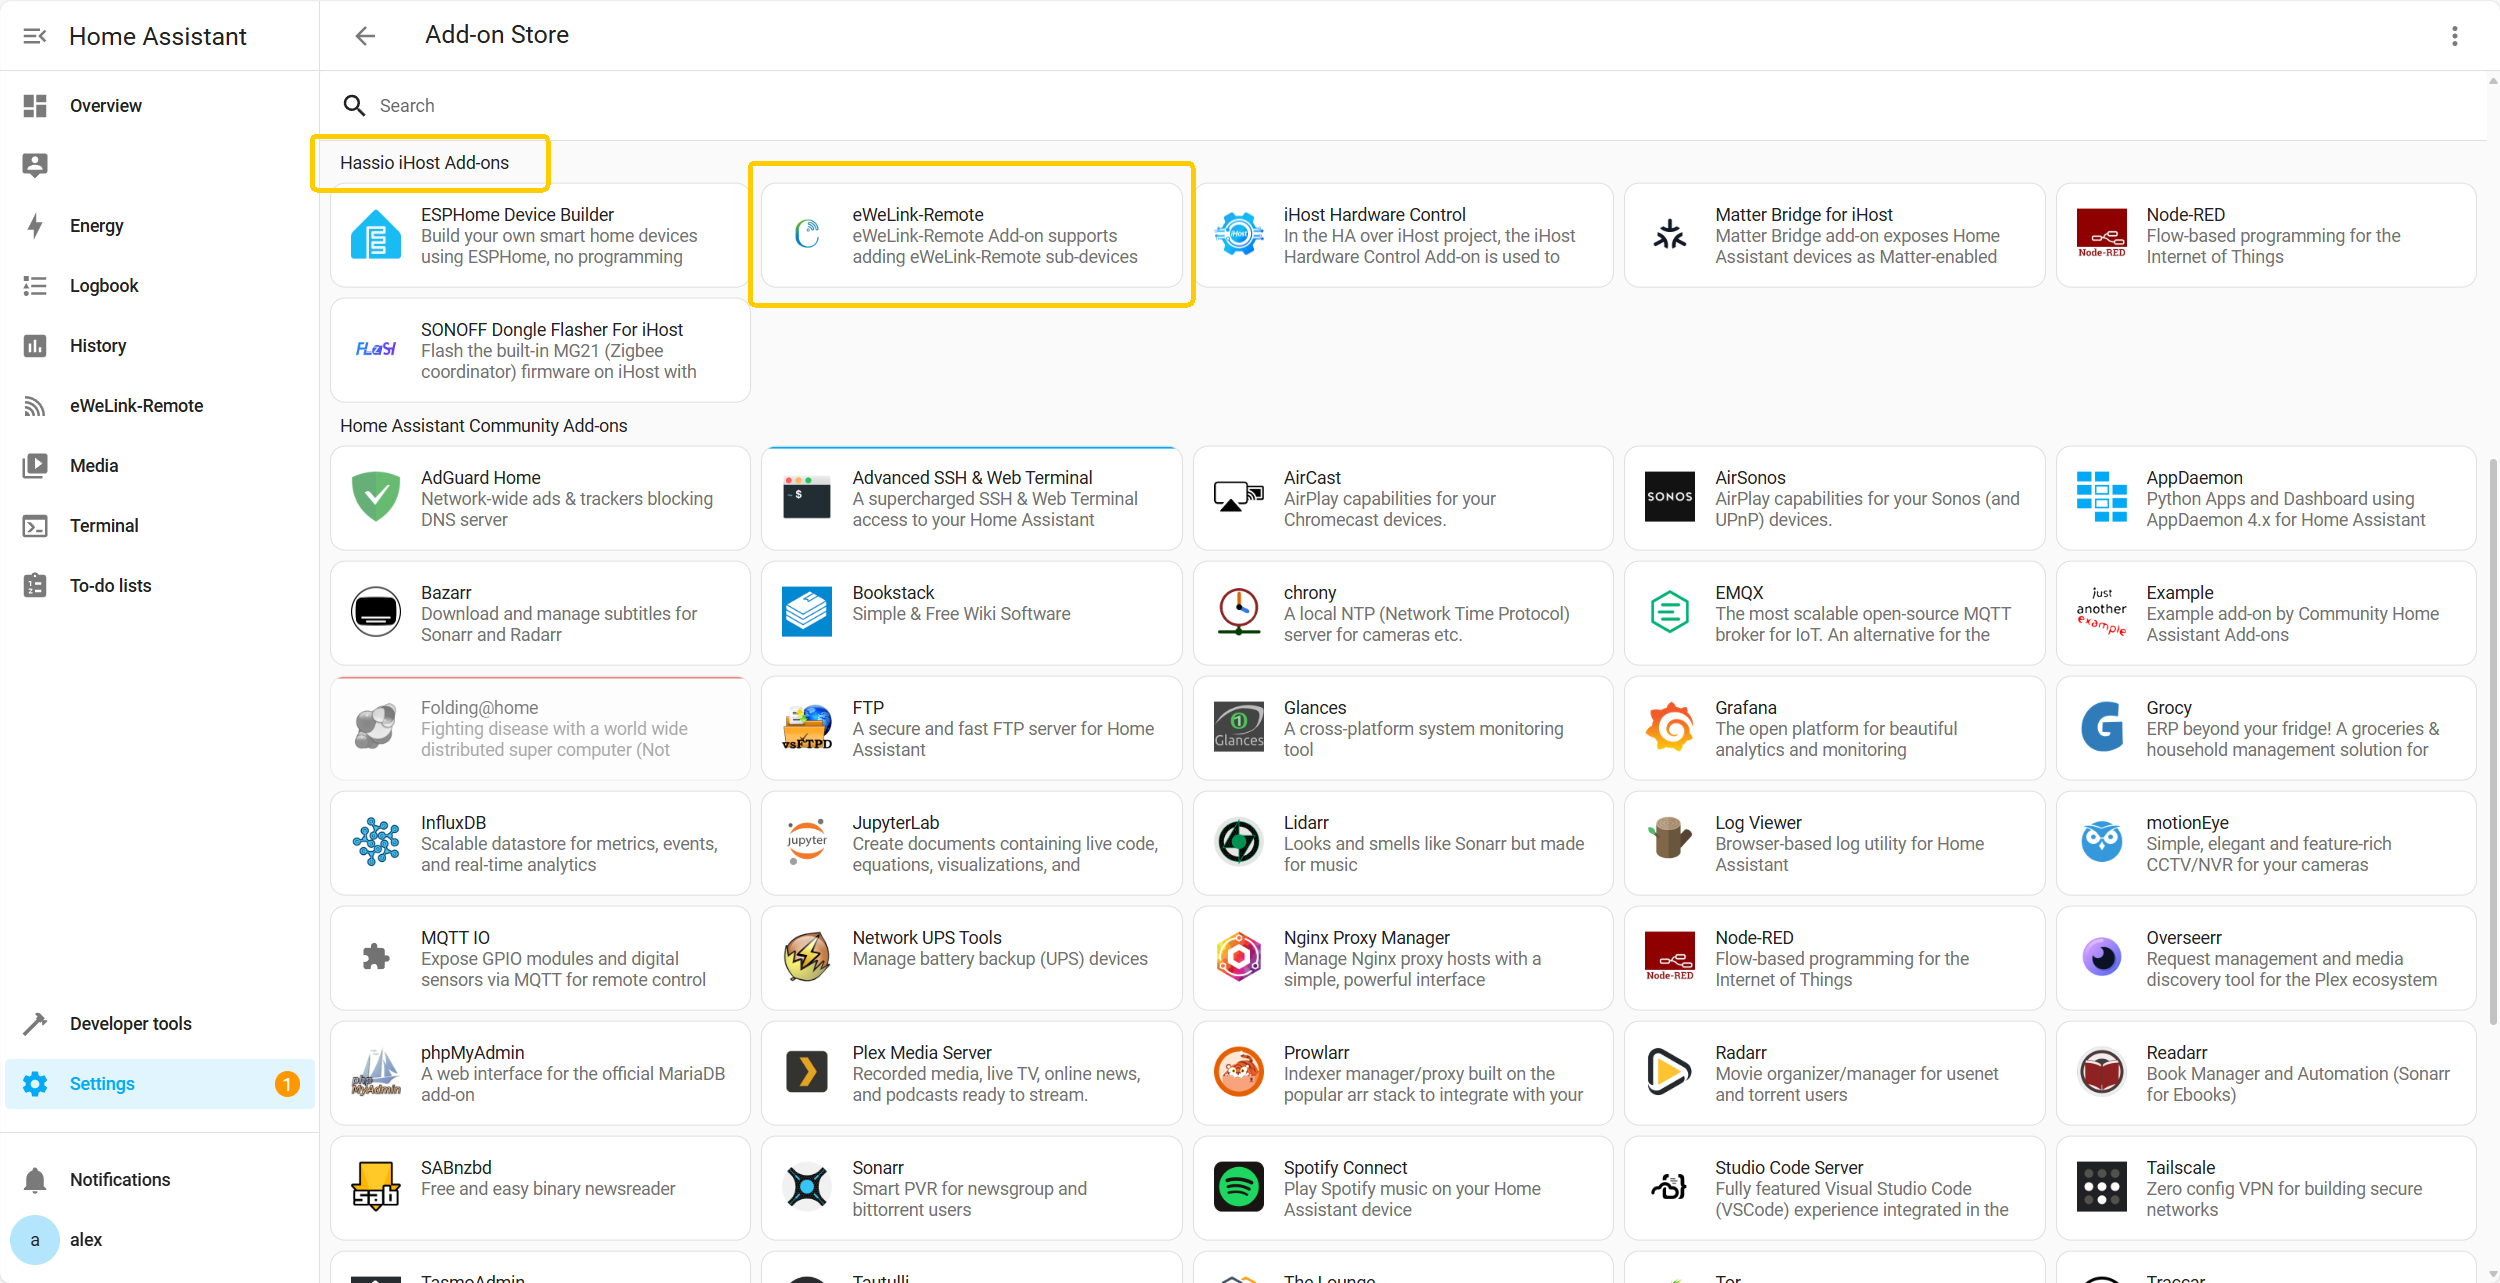
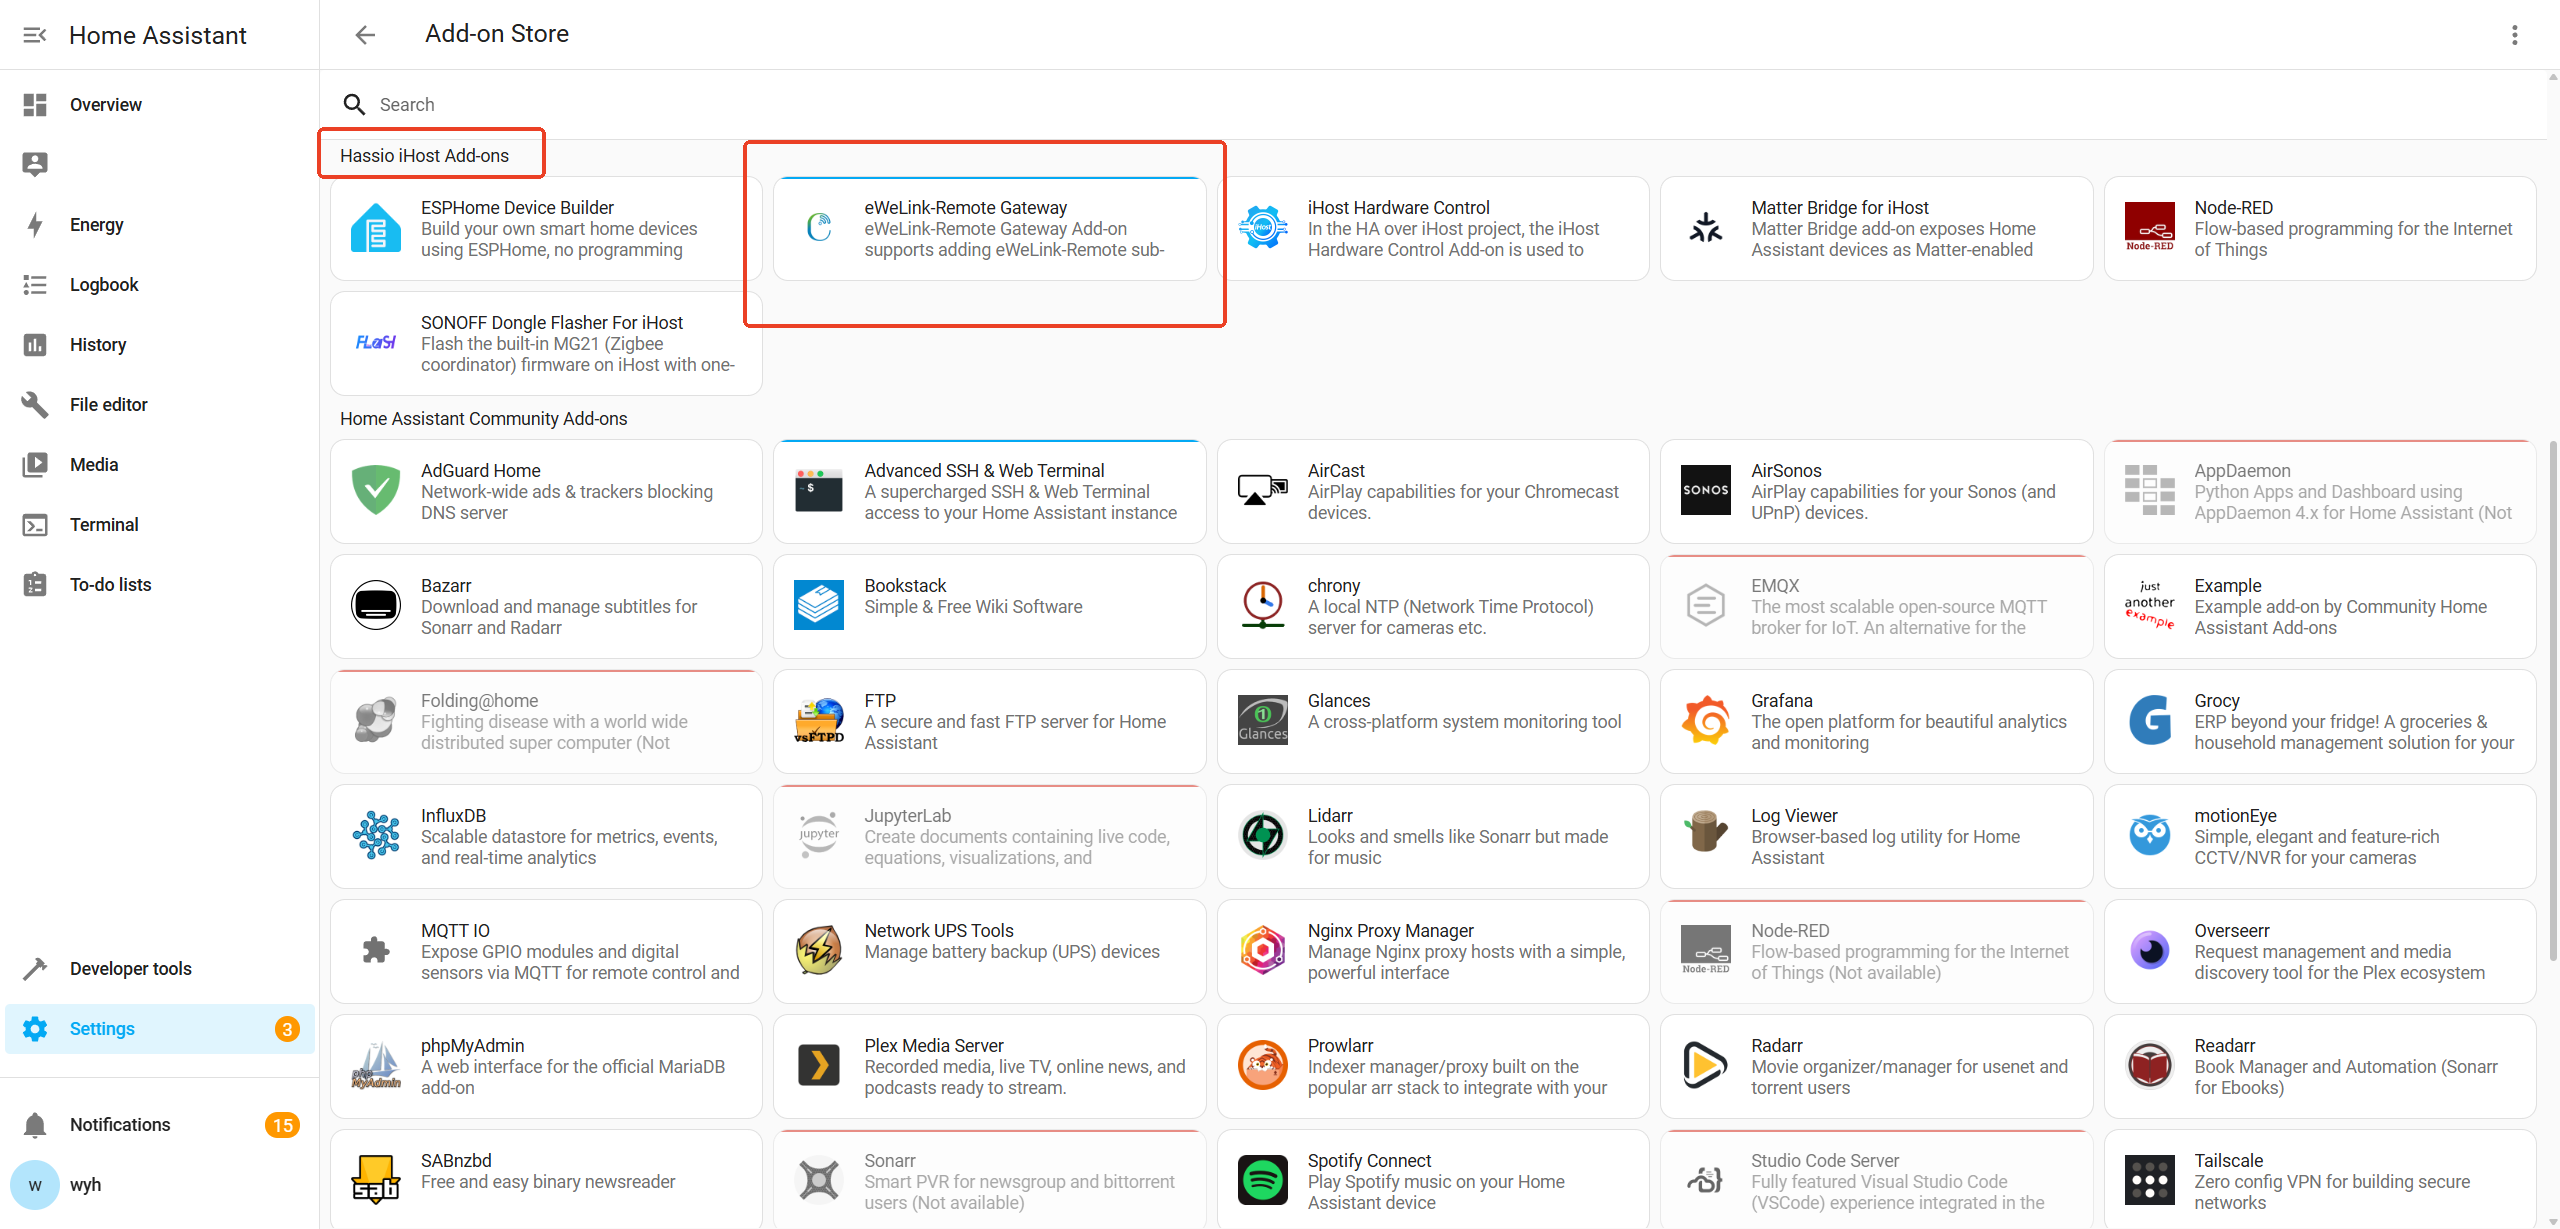
update ewelink remote addon doc and readme

diff --git a/hassio-ihost-ewelink-remote/DOCS.md b/hassio-ihost-ewelink-remote/DOCS.md
@@ -1,10 +1,15 @@
-# eWeLink-Remote Gateway Add-on
+# eWeLink-Remote Gateway
 ## 1. Introduction
-"eWeLink-Remote Gateway" is a remote control solution exclusive to SONOFF's devices, offering an enhanced alternative to traditional 433MHz RF control. It provides more reliable, longer-range, and easier control of your smart devices. eWeLink-Remote network includes an eWeLink-Remote gateway device and multiple sub-devices.[ See more >](https://sonoff.tech/news-and-events/what-is-ewelink-remote-control/)  
-eWeLink-Remote Gateway Add-on supports using devices such as R5, R5W, S-Mate, and S-Mate2 acting as eWeLink-Remote gateways.  
+eWeLink-Remote Gateway add-on is an eWeLink-Remote Gateway gateway that supports adding eWeLink-Remote sub-devices and syncing sub-devices  to Home Assistant,such as **R5,R5W,S-Mate,S-Mate2**. You can select eWeLink-Remote Gateway sub-devices in Home Assistant Automations and trigger automations through single-click,double-click,and long-press events reported by eWeLink-Remote Gateway sub-devices.Learn more about eWeLink-Remote Gateway.
+
 ## 2. Prerequisite
-The hardware on which Home Assistant is installed needs to have a Bluetooth module, and the running Home Assistant has Bluetooth [ passive scanning ](https://www.home-assistant.io/integrations/bluetooth/#passive-scanning) enabled.
-Enable Bluetooth passive scanning: Go to Bluetooth Integration > Configuration > Configure Bluetooth Options, check Passive Scanning, and click Submit. 
+To use the eWeLink-Remote Gateway Add-on, make sure your Home Assistant setup meets the following conditions:
+- The device running Home Assistant must have a functional Bluetooth module (if there is no Bluetooth module, you can configure a Bluetooth Dongle).
+- Enable Bluetooth integration
+- Bluetooth Passive Scanning must be enabled in Home Assistant.
+    - To enable Bluetooth passive scanning: 
+    Go to Bluetooth Integration > Configuration > Configure Bluetooth Options, check Passive Scanning, and click Submit. 
+
 ## 3. How to Install eWeLink-Remote Gateway Add-on?
 ### 3.1 Add eWeLink-Remote Gateway Add-on to Repositories
 Skip this step and simply proceed to the Add-on Store to install the required add-on if you have already added the add-ons from this repository (e.g., iHost Hardware Control).
@@ -12,25 +17,26 @@ Skip this step and simply proceed to the Add-on Store to install the required ad
 - Navigate to Settings > Add-on Store> Click the three-dot menu (⋮) in the top right corner and select Repositories
 - Enter the repository URL into the input box: https://github.com/iHost-Open-Source-Project/hassio-ihost-addon
 2. Via Button Clicking
-- Click this button to add the add-on automatically 
-
+- Click this buttonto add the add-on automatically    
 [![Open your Home Assistant instance and show the add add-on repository dialog with a specific repository URL pre-filled.](https://my.home-assistant.io/badges/supervisor_add_addon_repository.svg)](https://my.home-assistant.io/redirect/supervisor_add_addon_repository/?repository_url=https%3A%2F%2Fgithub.com%2FiHost-Open-Source-Project%2Fhassio-ihost-addon)
 ### 3.2 Install eWeLink-Remote Gateway Add-on
 1.    Search for eWeLink-Remote Gateway in the Add-ons Store.
 ![](https://raw.githubusercontent.com/iHost-Open-Source-Project/hassio-ihost-addon/master/hassio-ihost-ewelink-remote/images/find.png)
 2.    Click Install
-![](https://raw.githubusercontent.com/iHost-Open-Source-Project/hassio-ihost-addon/master/hassio-ihost-ewelink-remote/images/install_Addon.png)
+![](https://raw.githubusercontent.com/iHost-Open-Source-Project/hassio-ihost-addon/master/hassio-ihost-ewelink-remote/images/stall.png)
+![](https://raw.githubusercontent.com/iHost-Open-Source-Project/hassio-ihost-addon/master/hassio-ihost-ewelink-remote/images/open_web_ui1.png)
 3.   Wait for the installation to complete
 ### 3.3 Start the eWeLink-Remote Gateway Add-on
 After installation, click Start to launch the add-on. Wait until the service has fully started before proceeding.
-![](https://raw.githubusercontent.com/iHost-Open-Source-Project/hassio-ihost-addon/master/hassio-ihost-ewelink-remote/images/start.png)
 ## 4. Add devices via eWeLink-Remote Gateway Add-on
 1.  Click "Web Interface" to enter the Add-on operation interface.
 ![](https://raw.githubusercontent.com/iHost-Open-Source-Project/hassio-ihost-addon/master/hassio-ihost-ewelink-remote/images/open_web_ui.png)
 **Note*:**
-- When using eWeLink-Remote Gateway Add-on, you need to ensure that the Bluetooth function of Home Assistant can be used normally (the Bluetooth module is normal), otherwise the prompt content in the picture will appear
-- Before clicking "Pair" to start adding devices, you need to configure and enable Bluetooth "[ passive scanning ](https://www.home-assistant.io/integrations/bluetooth/#passive-scanning)  " to detect and connect to eWeLink-Remote devices. If it is not enabled in advance, a prompt page will appear. You can follow the prompt path (Go to Bluetooth Integration > Configuration > Configure Bluetooth Options, check Passive Scanning, and click Submit.) to enable it.
-![](https://raw.githubusercontent.com/iHost-Open-Source-Project/hassio-ihost-addon/master/hassio-ihost-ewelink-remote/images/no_blue.png)
+- Bluetooth must be enabled in Home Assistant to use the eWeLink-Remote Gateway Add-on. If there is no Bluetooth hardware module (configurable Bluetooth Dongle) or Bluetooth integration is not enabled, the Add-on will not work;
+You can check the log to determine whether the Add-on failed to run because the Bluetooth integration is not enabled. 
+![](https://raw.githubusercontent.com/iHost-Open-Source-Project/hassio-ihost-addon/master/hassio-ihost-ewelink-remote/images/Log-image.png)
+![](https://raw.githubusercontent.com/iHost-Open-Source-Project/hassio-ihost-addon/master/hassio-ihost-ewelink-remote/images/Log-Blue.png)
+- Before clicking "Pair" to start adding devices, you need to configure and enable Bluetooth "[ passive scanning ](https://www.home-assistant.io/integrations/bluetooth/#passive-scanning)  " to detect and connect to eWeLink-Remote Gateway devices. If it is not enabled in advance, a prompt page will appear. You can follow the prompt path (Go to Bluetooth Integration > Configuration > Configure Bluetooth Options, check Passive Scanning, and click Submit.) to enable it.
 ![](https://raw.githubusercontent.com/iHost-Open-Source-Project/hassio-ihost-addon/master/hassio-ihost-ewelink-remote/images/passive_scanning.png)
 2.  Click "Pair" to start adding devices. 
 Countdown is 180 seconds. During the adding process, you can manually click "Quit xxs" to stop adding devices. Press any button of the sub-device during the countdown to complete the device addition. 
@@ -50,3 +56,6 @@ Click "Edit" to manage the added devices, select the corresponding device, and c
 ![](https://raw.githubusercontent.com/iHost-Open-Source-Project/hassio-ihost-addon/master/hassio-ihost-ewelink-remote/images/HA_device.png)
 2. After the device is added successfully, you can configure scenes in Home Assistant as scene trigger conditions.
 ![](https://raw.githubusercontent.com/iHost-Open-Source-Project/hassio-ihost-addon/master/hassio-ihost-ewelink-remote/images/Sence.png)
+**Note*:**
+- After the eWeLink-Remote Gateway sub-device is successfully configured in Home Assistant Automation, if the entity name is changed, the entity name will be displayed as "Unknown" in the automation configuration information, but it will not affect the automation scene triggering.
+![](https://raw.githubusercontent.com/iHost-Open-Source-Project/hassio-ihost-addon/master/hassio-ihost-ewelink-remote/images/UNknow.png)

diff --git a/hassio-ihost-ewelink-remote/README.md b/hassio-ihost-ewelink-remote/README.md
@@ -1,17 +1,20 @@
 # eWeLink-Remote Gateway Add-on
 
+
 ![Supports armv7 Architecture](https://img.shields.io/badge/armv7-yes-green.svg)
 ![Supports aarch64 Architecture](https://img.shields.io/badge/aarch64-yes-green.svg)
+![Supports amd64 Architecture](https://img.shields.io/badge/amd64-yes-green.svg)
 
 
 ## About
-"eWeLink-Remote Gateway" is a remote control solution exclusive to SONOFF's devices, offering an enhanced alternative to traditional 433MHz RF control. It provides more reliable, longer-range, and easier control of your smart devices. eWeLink-Remote network includes an eWeLink-Remote gateway device and multiple sub-devices. 
-eWeLink-Remote Gateway Add-on supports using devices such as R5, R5W, S-Mate, and S-Mate2 acting as eWeLink-Remote gateways.
+eWeLink-Remote Gateway add-on is an eWeLink-Remote Gateway gateway that supports adding eWeLink-Remote Gateway sub-devices and syncing sub-devices  to Home Assistant,such as **R5,R5W,S-Mate,S-Mate2**. You can select eWeLink-Remote Gateway sub-devices in Home Assistant Automations and trigger automations through single-click,double-click,and long-press events reported by eWeLink-Remote Gateway sub-devices.
 
 
-## Prerequisites 
-
-Booting and running Home Assistant on iHost via a pre-flashed microSD card is required to use the eWeLink-Remote Gateway add-on, See the Operation Guide for more details. 
+## Prerequisite
+To use the eWeLink-Remote Gateway Add-on, make sure your Home Assistant setup meets the following conditions:
+- The device running Home Assistant must have a functional Bluetooth module (if there is no Bluetooth module, you can configure a Bluetooth Dongle).
+- Enable Bluetooth integration
+- Bluetooth Passive Scanning must be enabled in Home Assistant.
 
 ## Installation
 1. Go to the Add-on Store → Click the **More** button (⋮) in the upper-right corner → Select **Repositories**  
